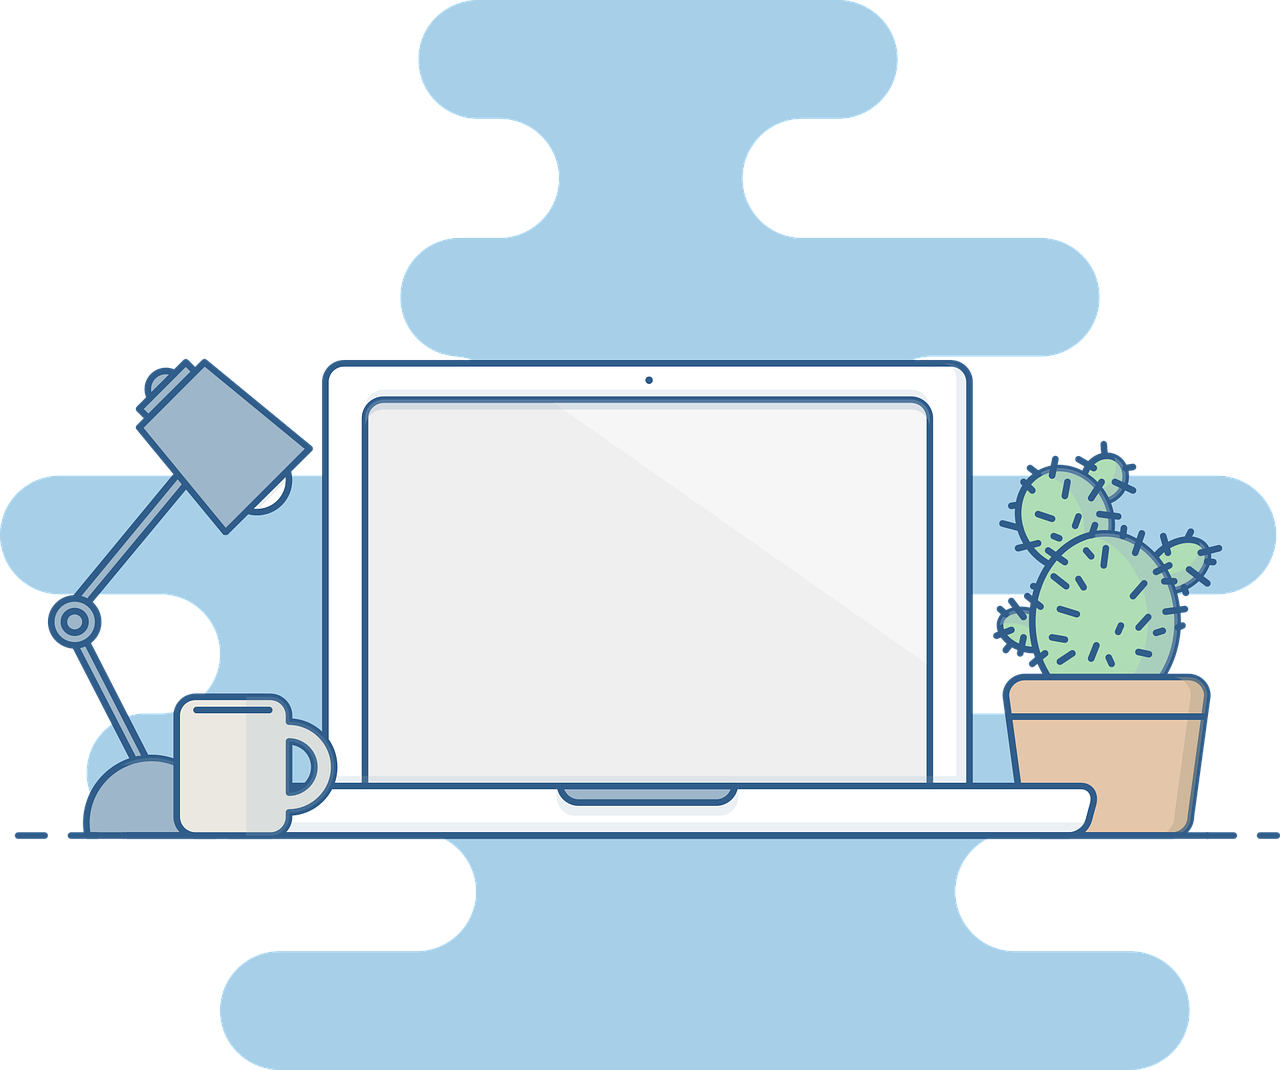
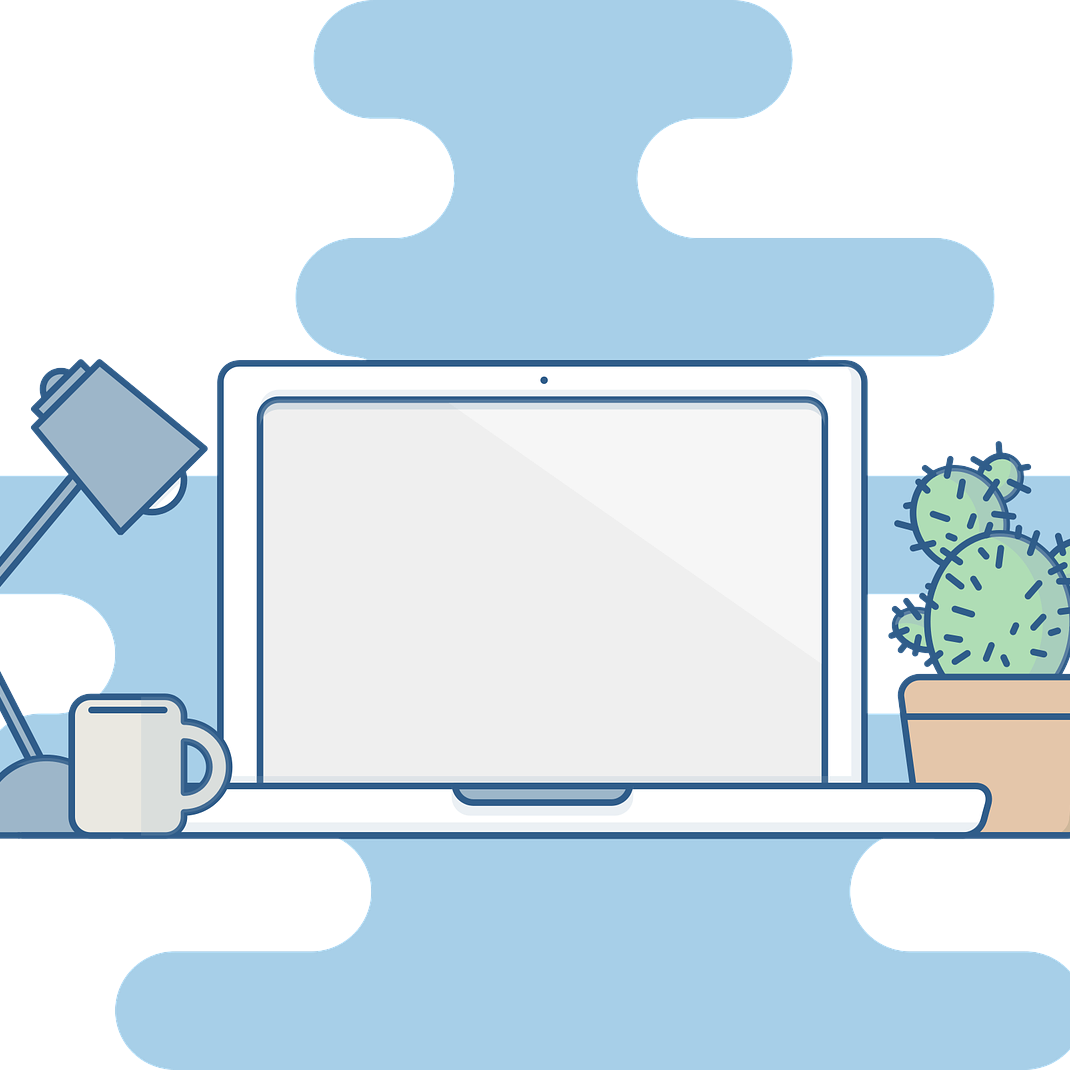
Update aspect ratio on header images

diff --git a/src/datamodel/FullPageData.ts b/src/datamodel/FullPageData.ts
@@ -1,7 +1,7 @@
 import {ISectionData}  from "./SectionData";
 import portraitImgUrl from '../assets/1704245613526.jpg';
 import careerImgUrl from '../assets/laptop-2298286_1280.png';
-import projectImgUrl  from '../assets/code-geek-2680204_1280.png';
+import projectImgUrl  from '../assets/code-1839406_1280.jpg';
 import bookImgUrl from '../assets/reading-3723751_1920.jpg';
 
 /**
